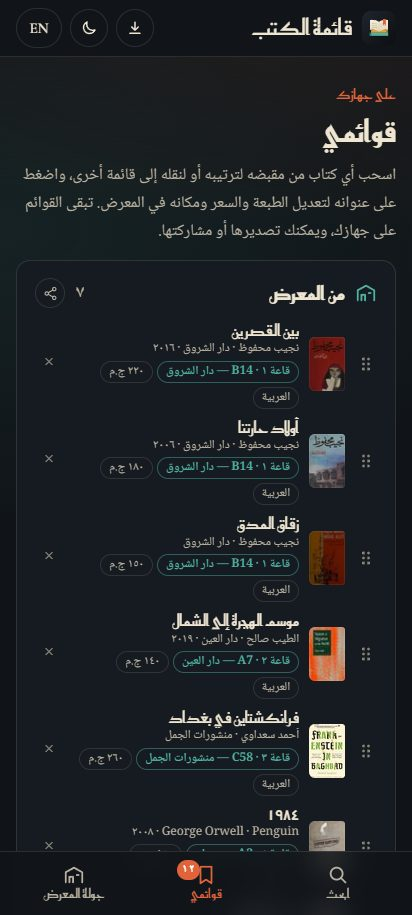
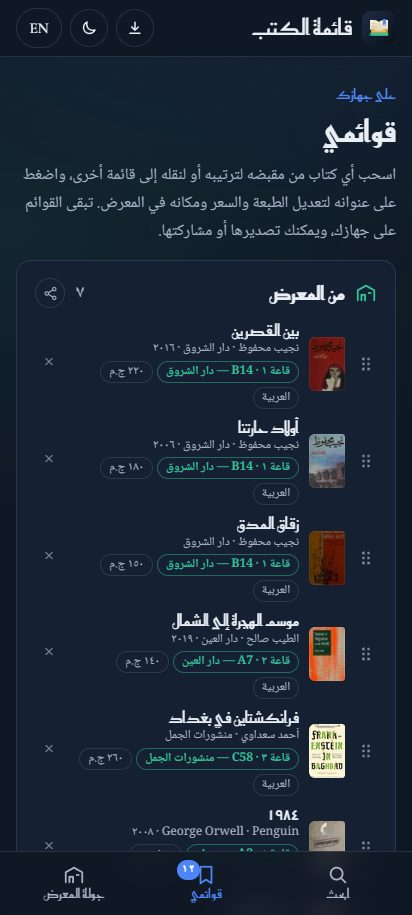
update

diff --git a/assets/css/app.css b/assets/css/app.css
@@ -5,19 +5,19 @@
    ========================================================= */
 
 :root {
-	--ink: #101418;
-	--ink-2: #161b21;
-	--ink-3: #1f262e;
-	--line: rgba(239, 230, 210, 0.12);
-	--paper: #efe6d2;
-	--paper-dim: #b9b1a0;
-	--muted: #8a8577;
-	--ember: #e0633a;
-	--gold: #d9a441;
-	--teal: #4fb3a2;
+	--ink: #0f1724;
+	--ink-2: #152033;
+	--ink-3: #1e2c44;
+	--line: rgba(226, 233, 245, 0.12);
+	--paper: #eaeef5;
+	--paper-dim: #a7b2c4;
+	--muted: #77839a;
+	--ember: #4f86f7;
+	--gold: #f2b84b;
+	--teal: #33c49a;
 	--radius: 14px;
 	--shadow: 0 20px 50px rgba(0, 0, 0, 0.45);
-	--header-bg: rgba(16, 20, 24, 0.82);
+	--header-bg: rgba(15, 23, 36, 0.84);
 
 	--f-display: 'Reem Kufi', 'Cormorant Garamond', serif;
 	--f-body: 'Noto Naskh Arabic', 'Cormorant Garamond', Georgia, serif;
@@ -25,18 +25,18 @@
 	color-scheme: dark;
 }
 html[data-theme="light"] {
-	--ink: #f3ecdd;
-	--ink-2: #fbf7ee;
-	--ink-3: #e9dfca;
-	--line: rgba(40, 32, 22, 0.14);
-	--paper: #211c16;
-	--paper-dim: #5b5244;
-	--muted: #857b6a;
-	--ember: #c4502a;
-	--gold: #a8741c;
-	--teal: #2b7f71;
-	--shadow: 0 20px 50px rgba(60, 40, 20, 0.18);
-	--header-bg: rgba(243, 236, 221, 0.86);
+	--ink: #f4f1ea;
+	--ink-2: #fffdf8;
+	--ink-3: #e9e4d8;
+	--line: rgba(20, 32, 51, 0.14);
+	--paper: #142033;
+	--paper-dim: #4a5872;
+	--muted: #7c879a;
+	--ember: #2c5fd6;
+	--gold: #a87410;
+	--teal: #17886a;
+	--shadow: 0 20px 50px rgba(20, 32, 51, 0.16);
+	--header-bg: rgba(244, 241, 234, 0.88);
 	color-scheme: light;
 }
 
@@ -236,7 +236,7 @@ select:focus, .fld input:focus, .fld textarea:focus { border-color: var(--ember)
 .bk-card:hover .bk-add { transform: translateY(-6px); }
 .bk-add button {
 	width: 34px; height: 34px; padding: 0; border-radius: 50%; cursor: pointer; display: grid; place-items: center;
-	background: rgba(16, 20, 24, .86); color: #efe6d2; border: 1px solid rgba(255, 255, 255, .18); backdrop-filter: blur(4px);
+	background: rgba(15, 23, 36, .86); color: #eaeef5; border: 1px solid rgba(255, 255, 255, .18); backdrop-filter: blur(4px);
 }
 .bk-add button svg { width: 16px; height: 16px; }
 .bk-add button:hover, .bk-add button[aria-pressed="true"] { background: var(--ember); border-color: var(--ember); color: #fff; }
@@ -266,7 +266,7 @@ html[dir="rtl"] .cover { border-radius: 6px 3px 3px 6px; background: linear-grad
 .cover img { position: absolute; inset: 0; width: 100%; height: 100%; object-fit: cover; }
 .cover-t {
 	position: absolute; inset: 12% 12% auto; display: flex; flex-direction: column; gap: 4px; text-align: center;
-	font-family: var(--f-display); font-size: 14px; line-height: 1.3; color: #f6efe0; overflow: hidden; max-height: 80%;
+	font-family: var(--f-display); font-size: 14px; line-height: 1.3; color: #f4f6fb; overflow: hidden; max-height: 80%;
 }
 .cover-t small { font-size: 11px; opacity: .75; }
 .cover::after { content: ''; position: absolute; inset: 0; pointer-events: none; box-shadow: inset 0 0 0 1px rgba(255, 255, 255, .06); border-radius: inherit; }

diff --git a/offline.html b/offline.html
@@ -4,17 +4,17 @@
 	<meta charset="UTF-8">
 	<meta name="viewport" content="width=device-width, initial-scale=1.0">
 	<title>دون اتصال — قائمة الكتب</title>
-	<meta name="theme-color" content="#101418">
+	<meta name="theme-color" content="#0f1724">
 	<link rel="icon" href="assets/img/icon.svg" type="image/svg+xml">
 	<link rel="stylesheet" href="assets/css/fonts.css">
 	<style>
-		body { margin: 0; min-height: 100vh; display: grid; place-items: center; background: #101418; color: #efe6d2; font-family: 'Noto Naskh Arabic', Georgia, serif; text-align: center; padding: 24px; box-sizing: border-box; }
+		body { margin: 0; min-height: 100vh; display: grid; place-items: center; background: #0f1724; color: #eaeef5; font-family: 'Noto Naskh Arabic', Georgia, serif; text-align: center; padding: 24px; box-sizing: border-box; }
 		img { width: 96px; height: 96px; margin: 0 auto 18px; display: block; }
 		h1 { font-family: 'Reem Kufi', serif; font-weight: 500; margin: 0 0 8px; }
-		p { color: #b9b1a0; margin: 0 0 4px; }
+		p { color: #a7b2c4; margin: 0 0 4px; }
 		.btns { display: flex; gap: 10px; justify-content: center; margin-top: 22px; flex-wrap: wrap; }
-		button, a { font: 16px 'Reem Kufi', serif; padding: 10px 20px; border-radius: 999px; border: 1px solid rgba(239, 230, 210, .2); background: none; color: #efe6d2; cursor: pointer; text-decoration: none; }
-		button { background: #e0633a; border-color: #e0633a; color: #fff; }
+		button, a { font: 16px 'Reem Kufi', serif; padding: 10px 20px; border-radius: 999px; border: 1px solid rgba(226, 233, 245, .2); background: none; color: #eaeef5; cursor: pointer; text-decoration: none; }
+		button { background: #4f86f7; border-color: #4f86f7; color: #fff; }
 	</style>
 </head>
 <body>

diff --git a/assets/css/notify.css b/assets/css/notify.css
@@ -16,11 +16,11 @@
 	font-family: var(--f-display); font-size: 15px; line-height: 1.45;
 	border-inline-start: 5px solid var(--ember);
 }
-html[data-theme="light"] .ns-box { background: #2a1f17; color: #f6efe0; }
+html[data-theme="light"] .ns-box { background: #142033; color: #eef2f8; }
 .ns-box p { margin: 0; }
 .ns-box a { color: inherit; font-weight: 700; text-decoration: underline; }
 .ns-box .ns-title { display: block; font-size: 12px; letter-spacing: .02em; opacity: .7; margin-bottom: 2px; }
-.ns-type-success { border-inline-start-color: #3f9c6d; }
+.ns-type-success { border-inline-start-color: var(--teal, #33c49a); }
 .ns-type-warning { border-inline-start-color: var(--gold); }
 .ns-type-error { border-inline-start-color: var(--blood, #b3261e); }
 .ns-close {

diff --git a/assets/js/pwa.js b/assets/js/pwa.js
@@ -14,7 +14,7 @@
 	/* the browser bar follows the theme */
 	function syncThemeColor() {
 		var m = document.querySelector('meta[name="theme-color"]');
-		if (m) m.setAttribute('content', html.getAttribute('data-theme') === 'light' ? '#f3ecdd' : '#101418');
+		if (m) m.setAttribute('content', html.getAttribute('data-theme') === 'light' ? '#f4f1ea' : '#0f1724');
 	}
 	new MutationObserver(syncThemeColor).observe(html, { attributes: true, attributeFilter: ['data-theme'] });
 	syncThemeColor();

diff --git a/index.html b/index.html
@@ -9,7 +9,7 @@
 	<link rel="icon" href="assets/img/icon.svg" type="image/svg+xml">
 	<link rel="apple-touch-icon" href="assets/img/icons/apple-touch-icon.png" sizes="180x180">
 	<link rel="manifest" href="manifest.webmanifest">
-	<meta name="theme-color" content="#101418">
+	<meta name="theme-color" content="#0f1724">
 	<meta name="color-scheme" content="dark light">
 	<meta name="application-name" content="قائمة الكتب">
 	<meta name="mobile-web-app-capable" content="yes">

diff --git a/sw.js b/sw.js
@@ -6,7 +6,7 @@
    VERSION and PRECACHE are rewritten by tools/build-sw.js — run it after changing files. */
 'use strict';
 
-var VERSION = 'bl-213bfb7d8e';
+var VERSION = 'bl-0f7420b021';
 var PRECACHE = [
 	'./',
 	'index.html',
